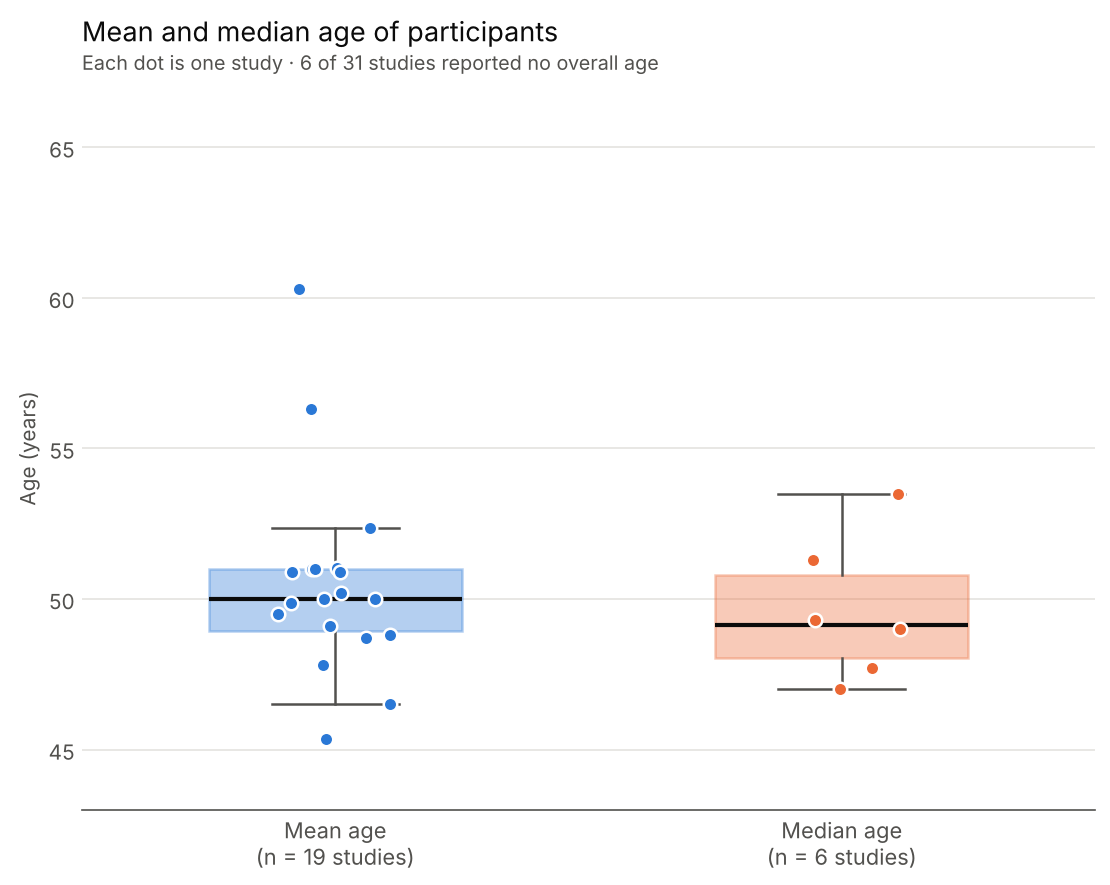
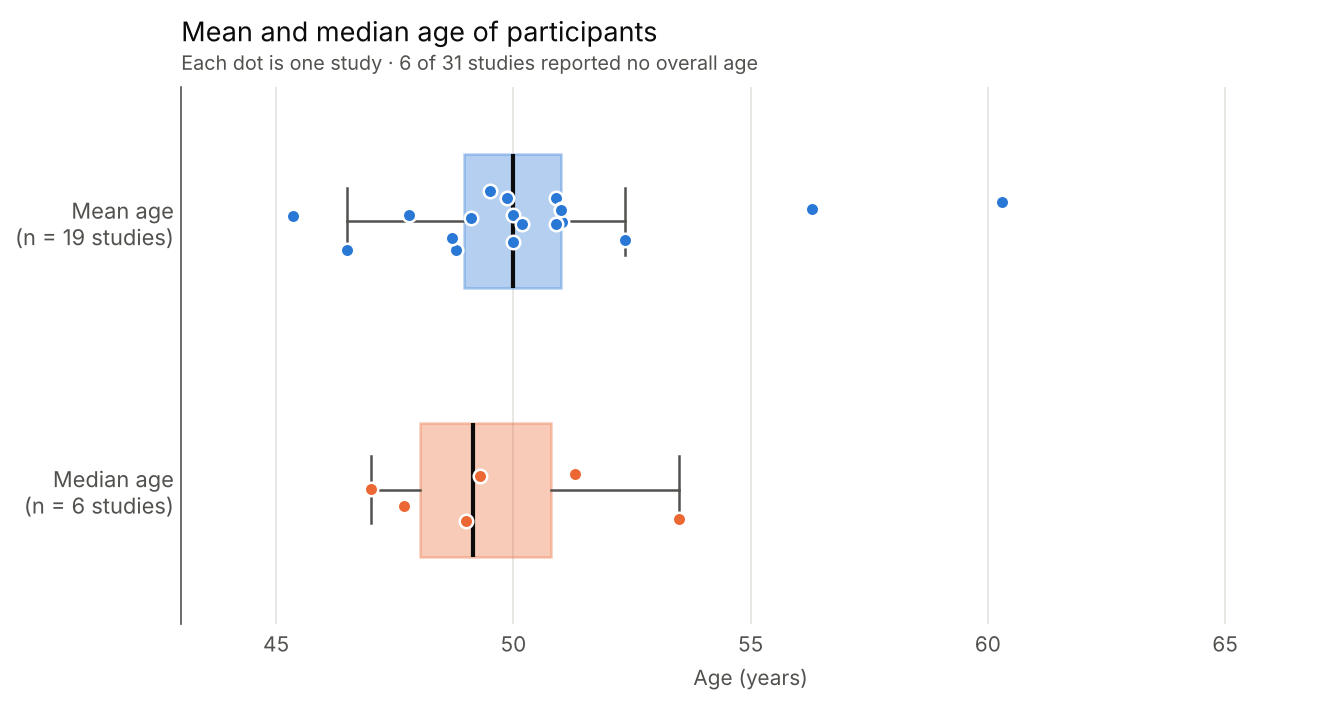
Make mean and median age box plots horizontal
Claude-Session: https://claude.ai/code/session_0115x3PuLwJj2Sbxu4DC7TZo

diff --git a/breast review/Mean and median age/plot_mean_and_median_age.py b/breast review/Mean and median age/plot_mean_and_median_age.py
@@ -2,7 +2,7 @@
 Breast review – mean age and median age of study participants.
 
 Reads the "Copy of Table cleaning" sheet of Data_Extraction.xlsx and draws two
-box plots on one chart: one for the studies that reported a mean age
+horizontal box plots on one chart: one for the studies that reported a mean age
 (column "Mean age 2") and one for the studies that reported a median age
 (column "Median age"). Each dot is one study.
 
@@ -55,8 +55,13 @@ data = [mean_ages.values, median_ages.values]
 labels = [f"Mean age\n(n = {len(mean_ages)} studies)",
           f"Median age\n(n = {len(median_ages)} studies)"]
 
-fig, ax = plt.subplots(figsize=(7.5, 6), dpi=150)
-box = ax.boxplot(data, widths=0.5, patch_artist=True, showfliers=False, zorder=2,
+# horizontal boxes ("orientation" in newer matplotlib, "vert" in older versions)
+import matplotlib
+major, minor = (int(x) for x in matplotlib.__version__.split(".")[:2])
+HORIZONTAL = {"orientation": "horizontal"} if (major, minor) >= (3, 10) else {"vert": False}
+
+fig, ax = plt.subplots(figsize=(9, 4.8), dpi=150)
+box = ax.boxplot(data, **HORIZONTAL, widths=0.5, patch_artist=True, showfliers=False, zorder=2,
                  medianprops=dict(color=INK, linewidth=2),
                  whiskerprops=dict(color=INK_2, linewidth=1.2),
                  capprops=dict(color=INK_2, linewidth=1.2),
@@ -69,15 +74,16 @@ for patch, colour in zip(box["boxes"], COLOURS):
 # every study as a dot (fixed seed so the chart is the same each run)
 rng = np.random.default_rng(1)
 for i, (values, colour) in enumerate(zip(data, COLOURS), start=1):
-    x = i + rng.uniform(-0.12, 0.12, size=len(values))
-    ax.scatter(x, values, s=42, color=colour, edgecolor="white", linewidth=1.2, zorder=3)
+    y = i + rng.uniform(-0.12, 0.12, size=len(values))
+    ax.scatter(values, y, s=42, color=colour, edgecolor="white", linewidth=1.2, zorder=3)
 
-ax.set_xticks([1, 2])
-ax.set_xticklabels(labels, color=INK, fontsize=10.5)
-ax.set_ylabel("Age (years)", color=INK_2)
+ax.set_yticks([1, 2])
+ax.set_yticklabels(labels, color=INK, fontsize=10.5)
+ax.invert_yaxis()                                # mean on top
+ax.set_xlabel("Age (years)", color=INK_2)
 low = min(v.min() for v in data)
 high = max(v.max() for v in data)
-ax.set_ylim(np.floor(low / 5) * 5 - 2, np.ceil(high / 5) * 5 + 2)
+ax.set_xlim(np.floor(low / 5) * 5 - 2, np.ceil(high / 5) * 5 + 2)
 
 ax.set_title("Mean and median age of participants", fontsize=13, color=INK, loc="left", pad=22)
 ax.annotate(f"Each dot is one study · {n_studies - len(mean_ages) - len(median_ages)} of "
@@ -85,10 +91,10 @@ ax.annotate(f"Each dot is one study · {n_studies - len(mean_ages) - len(median_
             xy=(0, 1), xycoords="axes fraction", xytext=(0, 6), textcoords="offset points",
             fontsize=9.5, color=INK_2, ha="left", va="bottom")
 
-ax.grid(axis="y", color=GRID, linewidth=0.8, zorder=0)
-for side in ("top", "right", "left"):
+ax.grid(axis="x", color=GRID, linewidth=0.8, zorder=0)
+for side in ("top", "right", "bottom"):
     ax.spines[side].set_visible(False)
-ax.spines["bottom"].set_color(INK_2)
+ax.spines["left"].set_color(INK_2)
 ax.tick_params(colors=INK_2, length=0)
 
 plt.tight_layout()
